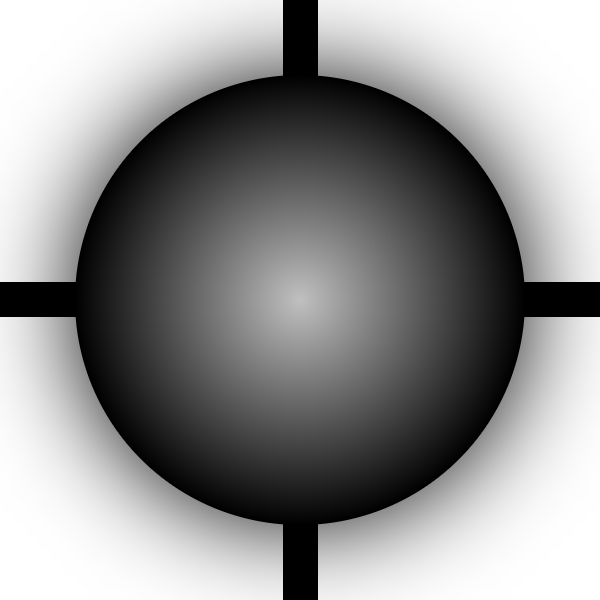
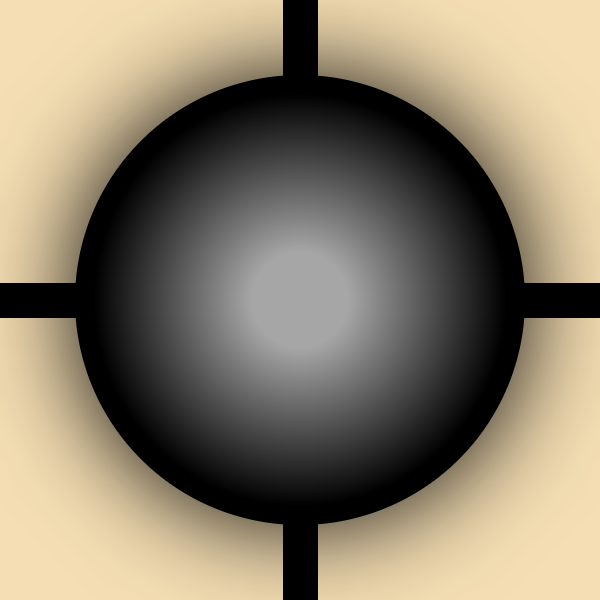
Basics done

diff --git a/Pente/PlayWindow.xaml b/Pente/PlayWindow.xaml
@@ -9,9 +9,10 @@
         Icon="Resources\icon.png"
         Closing="Window_Closing"
         Closed="Window_Closed"
-        Height="1000"
-        Width="1000"
-        ResizeMode="NoResize">
+        Height="830"
+        Width="751"
+        ResizeMode="NoResize"
+        Background="Wheat">
 
     <Window.Resources>
         <Style x:Key="btnStyle1" TargetType="Button">
@@ -20,13 +21,9 @@
             <Setter Property="Margin" Value="0 0 0 0"/>
             <Setter Property="VerticalContentAlignment" Value="Center"/>
             <Setter Property="HorizontalContentAlignment" Value="Center"/>
-            <Setter Property="Margin" Value="0 0"/>
 
             <Style.Triggers>
                 <Trigger Property="IsMouseOver" Value="True">
-                    <Setter Property="Foreground" Value="Transparent"/>
-                    <Setter Property="Grid.Background" Value="Transparent"/>
-                    <Setter Property="Background" Value="Transparent"/>
                     <Setter Property="Template">
                         <Setter.Value>
                             <ControlTemplate TargetType="Button">
@@ -34,6 +31,9 @@
                             </ControlTemplate>
                         </Setter.Value>
                     </Setter>
+                    <Setter Property="Foreground" Value="Transparent"/>
+                    <Setter Property="Grid.Background" Value="Transparent"/>
+                    <Setter Property="Background" Value="Transparent"/>
 
                 </Trigger>
             </Style.Triggers>
@@ -42,17 +42,25 @@
     </Window.Resources>
 
 
-    <StackPanel Height="1000">
-        <Menu DockPanel.Dock="Top" Grid.Row="0">
+    <StackPanel Height="830" VerticalAlignment="Top">
+        <!--<Menu DockPanel.Dock="Top" Grid.Row="0">
             <MenuItem Header="Option">
                 <MenuItem Header="Run" x:Name="Run" Click="Run_Click"/>
                 <MenuItem Header="Pause" x:Name="Pause" Click="Pause_Click"/>
             </MenuItem>
-        </Menu>
-        
-        <Grid x:Name="grid" Height="944" ShowGridLines="False">
+        </Menu>-->
+
+        <!--<Grid x:Name="grid" Height="944" ShowGridLines="False" Margin="0" HorizontalAlignment="Center" VerticalAlignment="Center">-->
+        <Grid x:Name="grid" Height="741" Width="741" ShowGridLines="False" Margin="0" HorizontalAlignment="Center" VerticalAlignment="Top">
 
         </Grid>
+        
+        
+        <StackPanel Orientation="Horizontal" Height="79" VerticalAlignment="Top">
+            <TextBlock Background="Black">hello</TextBlock>
+            <TextBlock VerticalAlignment="Top" Height="50" Width="400" Background="Black">sfwehifuhwefhiowefhiwoefwifh</TextBlock>
+            
+        </StackPanel>
       
     </StackPanel>
 </Window>

diff --git a/Pente/PlayWindow.xaml.cs b/Pente/PlayWindow.xaml.cs
@@ -1,4 +1,5 @@
-using System;
+using Pente.GameLogic;
+using System;
 using System.Collections.Generic;
 using System.Text;
 using System.Windows;
@@ -16,12 +17,12 @@ namespace Pente
     /// Interaction logic for PlayWindow.xaml
     /// </summary>
     /// 
-    struct Cell
+    public struct Cell
     {
         public Button btn;
-        SolidColorBrush color;
+        public Byte color;
 
-        public Cell(Button btn, SolidColorBrush color = null)
+        public Cell(Button btn, Byte color = 0)
         {
             this.btn = btn;
             this.color = color;
@@ -33,13 +34,14 @@ namespace Pente
     {
         Window mainWindow;
         private int numOfPlayers;
-        private const int SCALE = 51;
-        private const int WIDTH = 1000;
-        private const int HEIGHT = 1000;
+        private const int SCALE = 39;
+        private const int WIDTH = 741;
+        private const int HEIGHT = 741;
         private const int wDs = WIDTH / SCALE;
         private const int hDs = HEIGHT / SCALE;
         public int maxPixel = hDs;
-        
+        public byte turn = 1;
+        BoardLogic boardLogic = new BoardLogic();
 
         Cell[,] matrix = new Cell[hDs, wDs];
 
@@ -47,6 +49,7 @@ namespace Pente
         public PlayWindow( int players, Window sentWindow=null)
         {
             mainWindow = sentWindow;
+            numOfPlayers = players;
             InitializeComponent();
             setupBoard();
 
@@ -62,11 +65,11 @@ namespace Pente
         {
 
             // Adding rows and columns in the grid
-            for (int i = 0; i < HEIGHT / SCALE; i++)
+            for (int i = 0; i < hDs; i++)
             {
                 grid.RowDefinitions.Add(new RowDefinition());
             }
-            for (int i = 0; i < WIDTH / SCALE; i++)
+            for (int i = 0; i < wDs; i++)
             {
                 grid.ColumnDefinitions.Add(new ColumnDefinition());
 
@@ -88,16 +91,29 @@ namespace Pente
                     btn.Name = "Button" + btnCount.ToString();
                     btn.FontSize = 85;
                     btn.Style = style;
-                    btn.Content = new Image
+
+                    if (( (i == 3 | i==9 | i==15 ) && (j == 3 | j == 9 | j == 15)) | (i==9 && j==9))
                     {
-                        Source = new BitmapImage(new Uri("/Resources/cross.png", UriKind.RelativeOrAbsolute)),
-                        VerticalAlignment = VerticalAlignment.Center,
-                        HorizontalAlignment = HorizontalAlignment.Center,
-                        Stretch = Stretch.Fill,
-                    };
+                        btn.Content = new Image
+                        {
 
+                            Source = new BitmapImage(new Uri("/Resources/crossSpecial.png", UriKind.RelativeOrAbsolute)),
+                            VerticalAlignment = VerticalAlignment.Center,
+                            HorizontalAlignment = HorizontalAlignment.Center,
+                            Stretch = Stretch.Fill,
+                        };
+                    }
+                    else
+                    {
+                        btn.Content = new Image
+                        {
 
-                    ////matrix[i, j] = btn;
+                            Source = new BitmapImage(new Uri("/Resources/cross.png", UriKind.RelativeOrAbsolute)),
+                            VerticalAlignment = VerticalAlignment.Center,
+                            HorizontalAlignment = HorizontalAlignment.Center,
+                            Stretch = Stretch.Fill,
+                        };
+                    }
 
 
 
@@ -105,8 +121,8 @@ namespace Pente
                     matrix[i, j] = cell;
 
 
-                    Grid.SetColumn(btn, j);
                     Grid.SetRow(btn, i);
+                    Grid.SetColumn(btn, j);
                     grid.Children.Add(btn);
 
                     btnCount++;
@@ -115,17 +131,31 @@ namespace Pente
             }
         }
 
-        //Event that runs for a button that is clicked
+        //Event that runs for any button on the board that is clicked
         private void btn_Event(object sender, RoutedEventArgs e)
         {
             Button cell = (sender as Button);
-            matrix[Grid.GetRow(cell), Grid.GetColumn(cell)].btn.Content = new Image
+            int row = Grid.GetRow(cell);
+            int col = Grid.GetColumn(cell);
+            if (matrix[row,col].color==0) // 0 means no color
             {
-                Source = new BitmapImage(new Uri("/Resources/crossWhite.png", UriKind.RelativeOrAbsolute)),
-                VerticalAlignment = VerticalAlignment.Center,
-                HorizontalAlignment = HorizontalAlignment.Center,
-                Stretch = Stretch.Fill,
-            };
+                string color = (turn == 1 ? "White" : (turn == 2) ? "Black" : (turn == 3) ? "Green" : "Blue"); // Setting color
+                if(turn != numOfPlayers) { turn++; } else { turn=1; } // Incrementing turn
+                matrix[row,col].color = turn; // Players turn number represents color
+                // Updating button image with the players color
+                matrix[row,col].btn.Content = new Image
+                {
+                    Source = new BitmapImage(new Uri($"/Resources/cross{color}.png", UriKind.RelativeOrAbsolute)),
+                    VerticalAlignment = VerticalAlignment.Center,
+                    HorizontalAlignment = HorizontalAlignment.Center,
+                    Stretch = Stretch.Fill,
+                };
+
+                if(boardLogic.xPiecesInSuccession(matrix,row,col,turn,5)) { MessageBox.Show($"{color} won the game!!!"); } // Checkin for tria;
+                else if(boardLogic.xPiecesInSuccession(matrix,row,col,turn,4)) { MessageBox.Show($"{color} has a tesra!"); } // Checkin for tria;
+                else if(boardLogic.xPiecesInSuccession(matrix,row,col,turn,3)) { MessageBox.Show($"{color} has a tria!"); } // Checkin for tria;
+                matrix[row, col].btn.IsEnabled = false;
+            }
         }
 
         private void Window_Closing(object sender, System.ComponentModel.CancelEventArgs e)
@@ -148,9 +178,5 @@ namespace Pente
 
         }
 
-        public int testMeth()
-        {
-            return 1;
-        }
     }
 }

diff --git a/Pente/GameLogic/BoardLogic.cs b/Pente/GameLogic/BoardLogic.cs
@@ -2,14 +2,98 @@
 using System.Collections.Generic;
 using System.Text;
 
+
 namespace Pente.GameLogic
 {
     public class BoardLogic
     {
-
-        public int BoardLogicMethod()
+        public bool checkTriaHorVer(Cell[,] matrix, int row, int col, byte color)
         {
-            return 313;
+            int pieceCount = 0;
+
+            // Checking right of piece for more like pieces
+            for(int c = col; (c<matrix.GetLength(1) && col-c < 3); c++)
+            {   
+                if(matrix[row, c].color == color) { pieceCount++; } else { break; }
+            }
+            // Checking left of piece for more like pieces
+            for (int c = col; c >= 0; c--)
+            {
+                if (matrix[row, c].color == color) { pieceCount++; } else { break; }
+            }
+            // If there are 3 pieces horizontal it is a tria
+            if (pieceCount == 4) { return true; } else { pieceCount = 0; } // == 4 because the place piece is counted twice
+
+
+
+            // Checking right of piece for more like pieces
+            for (int r = row; r < matrix.GetLength(1); r++)
+            {
+
+                if (matrix[r, col].color == color) { pieceCount++; } else { break; }
+            }
+            // Checking left of piece for more like pieces
+            for (int r = row; r >= 0; r--)
+            {
+                if (matrix[r, col].color == color) { pieceCount++; } else { break; }
+            }
+
+            // If there are 3 pieces vertical it is a tria
+            if (pieceCount == 4) { return true; } else { pieceCount = 0; } // == 4 because the place piece is counted twice
+
+
+            return false;
         }
+
+        // Checks if x number of pieces are lined up together, so this can be used to check for tira(3), tesra(4), or win check(5)
+        public bool xPiecesInSuccession(Cell[,] matrix, int startRow, int startCol, int pieceColor, int numOfPieces)
+        {
+            byte count = 0;
+            int prefix = 1;
+            byte pieceCount = 0;
+            do
+            {
+                //// Horizontal
+                for (int col = startCol; (col-1>=-1 && col<matrix.GetLength(1) && Math.Abs(startCol - col) <= numOfPieces); col+=prefix)
+                {
+                    if (matrix[startRow, col].color == pieceColor) { pieceCount++; } else { break; }
+                }
+                    if (pieceCount == numOfPieces) { return true; } else { pieceCount = 0; }
+
+                //// Vertical 
+                for (int row = startRow; (row - 1 >= -1 && row < matrix.GetLength(0) && Math.Abs(startRow - row) <= numOfPieces); row+=prefix)
+                {
+                    if (matrix[row, startCol].color == pieceColor) { pieceCount++; } else { break; }
+                }
+                if (pieceCount == numOfPieces) { return true; } else { pieceCount = 0; }
+
+                //// Diagonal (top left <--> bottom right)
+                     int c = startCol;
+                for (int r = startRow; ((c - 1 >= -1 && c < matrix.GetLength(1)) && (r - 1 >= -1 && r < matrix.GetLength(0))); r += prefix, c += prefix)
+                {
+                    if (matrix[r, c].color == pieceColor) { pieceCount++; } else { break; }
+                }
+                if (pieceCount == numOfPieces) { return true; } else { pieceCount = 0; }
+
+                //// Diagonal (top right <--> bottom left)
+                         c = startCol;
+                for (int r = startRow; ((c - 1 >= -1 && c < matrix.GetLength(1)) && (r - 1 >= -1 && r < matrix.GetLength(0))); r-=prefix, c+=prefix)
+                {
+                    if (matrix[r, c].color == pieceColor) { pieceCount++; } else { break; }
+                }
+                if (pieceCount == numOfPieces) { return true; } else { pieceCount = 0; }
+
+
+                count++;
+                prefix = -1;
+            } while (count != 2);
+
+
+            return false;
+        }
+
+
+
+
     }
 }
